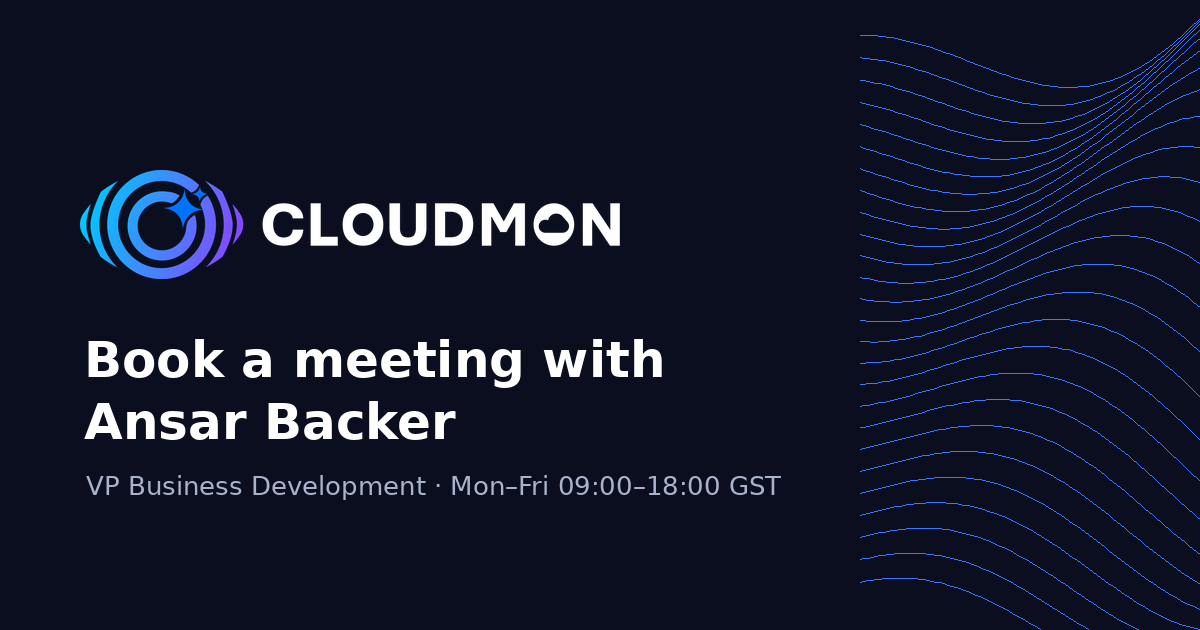
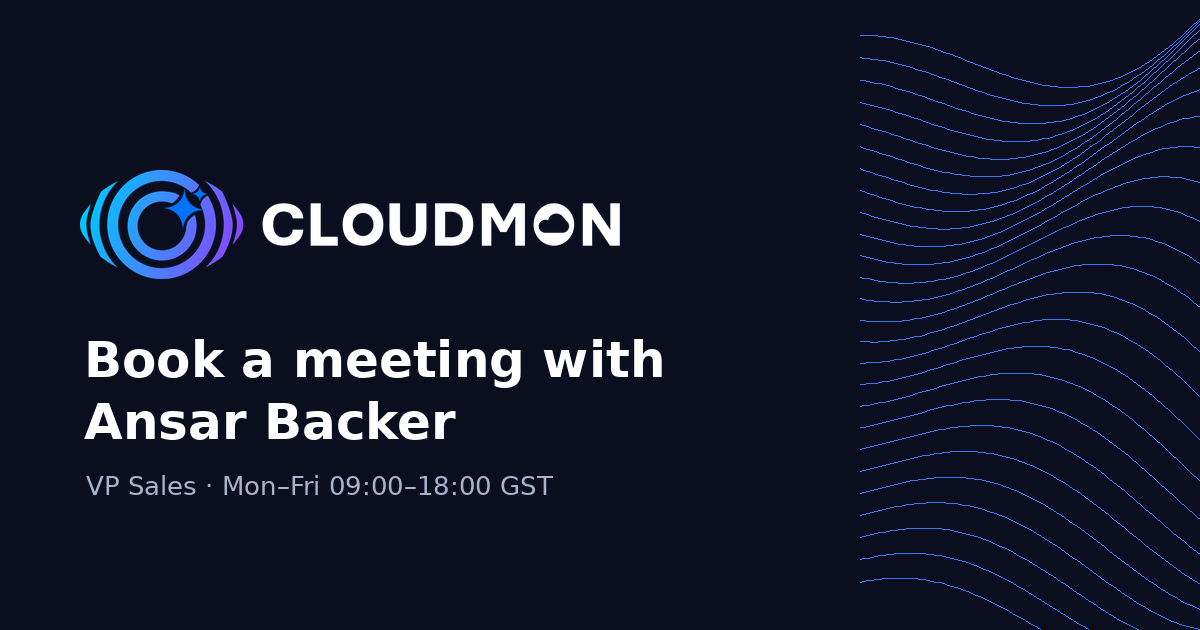
Show title as Vice President of Sales on booking page and share image
Claude-Session: https://claude.ai/code/session_01TpJWET3ecWUckVna9SACZW

Changed region(s): [[0.0925, 0.754, 0.6475, 0.7841]]

diff --git a/index.html b/index.html
@@ -3,7 +3,7 @@
 <head>
 <meta charset="utf-8">
 <meta name="viewport" content="width=device-width,initial-scale=1,viewport-fit=cover">
-<meta name="description" content="Book a meeting with Ansar Backer, Vice President, Business Development at Cloudmon.">
+<meta name="description" content="Book a meeting with Ansar Backer, Vice President of Sales at Cloudmon.">
 <meta property="og:title" content="Book a meeting with Ansar Backer · Cloudmon">
 <meta property="og:description" content="Pick a time that works for you. Mon–Fri, 09:00–18:00 GST.">
 <meta property="og:image" content="https://ansarbacker.github.io/Meet/og-image.png">
@@ -164,7 +164,7 @@ footer a{color:var(--accent);font-weight:600;text-decoration:none}
     <div class="bandin">
       <img class="logo" src="logo-white.png" alt="Cloudmon" width="720" height="145">
       <h1>Book a meeting with Ansar Backer</h1>
-      <p class="role">Vice President, Business Development · Cloudmon</p>
+      <p class="role">Vice President of Sales · Cloudmon</p>
       <div class="facts">
         <span class="fact">Mon–Fri · 09:00–18:00 GST</span>
         <span class="fact">UTC+4 · Dubai</span>
